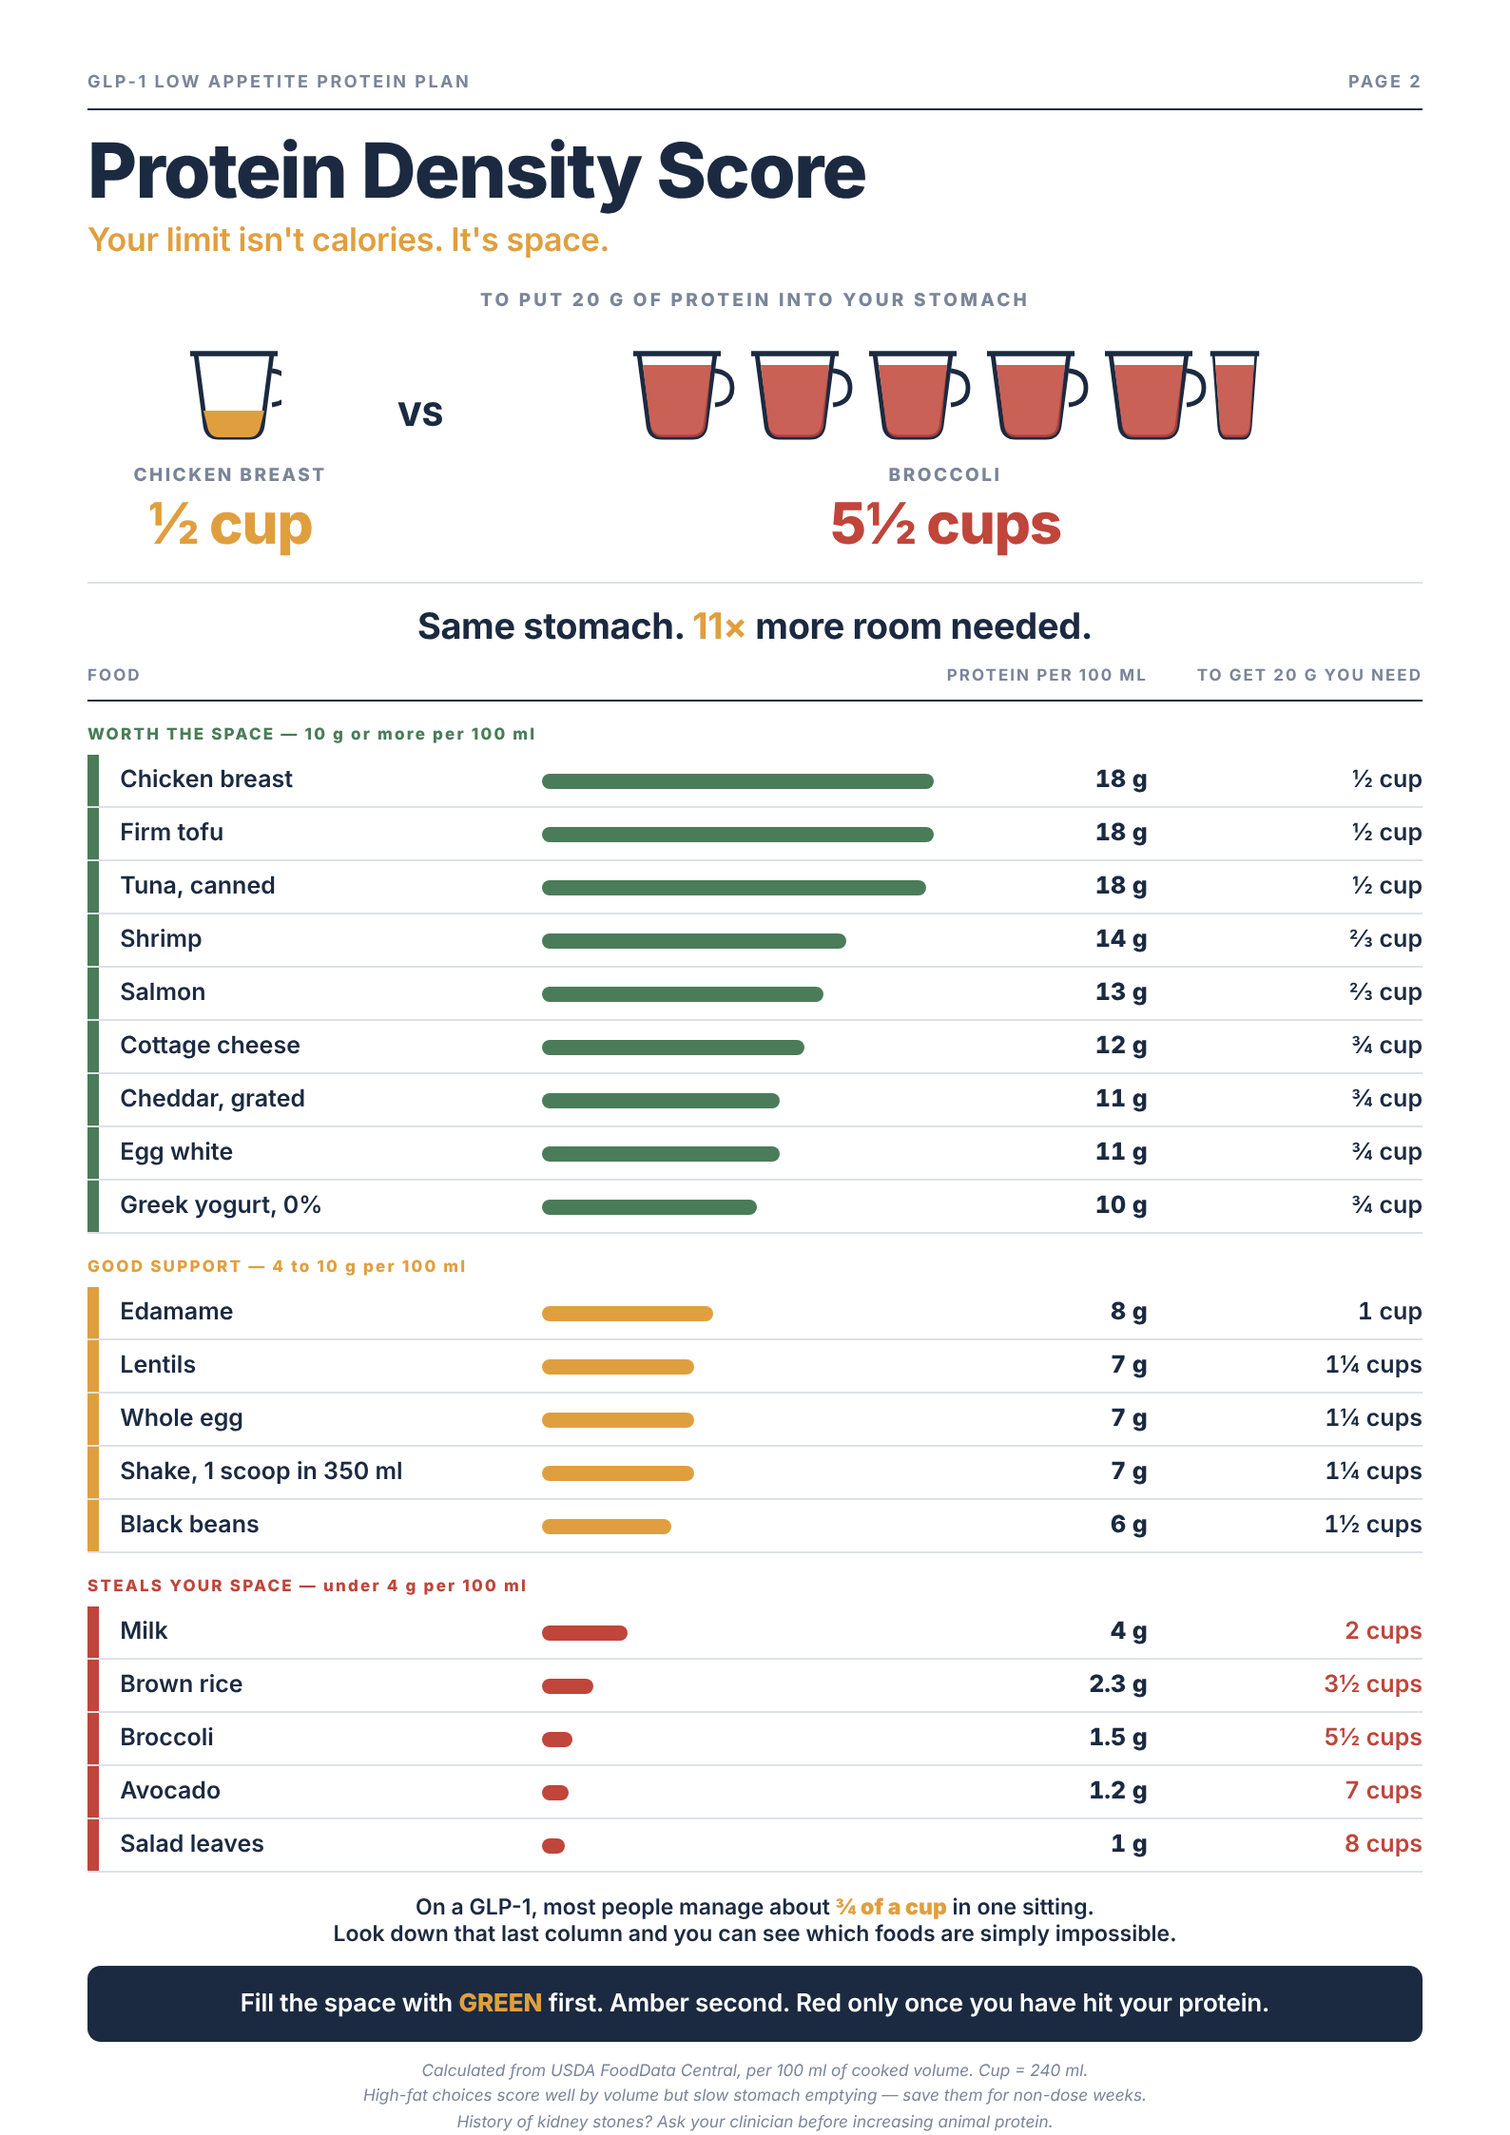
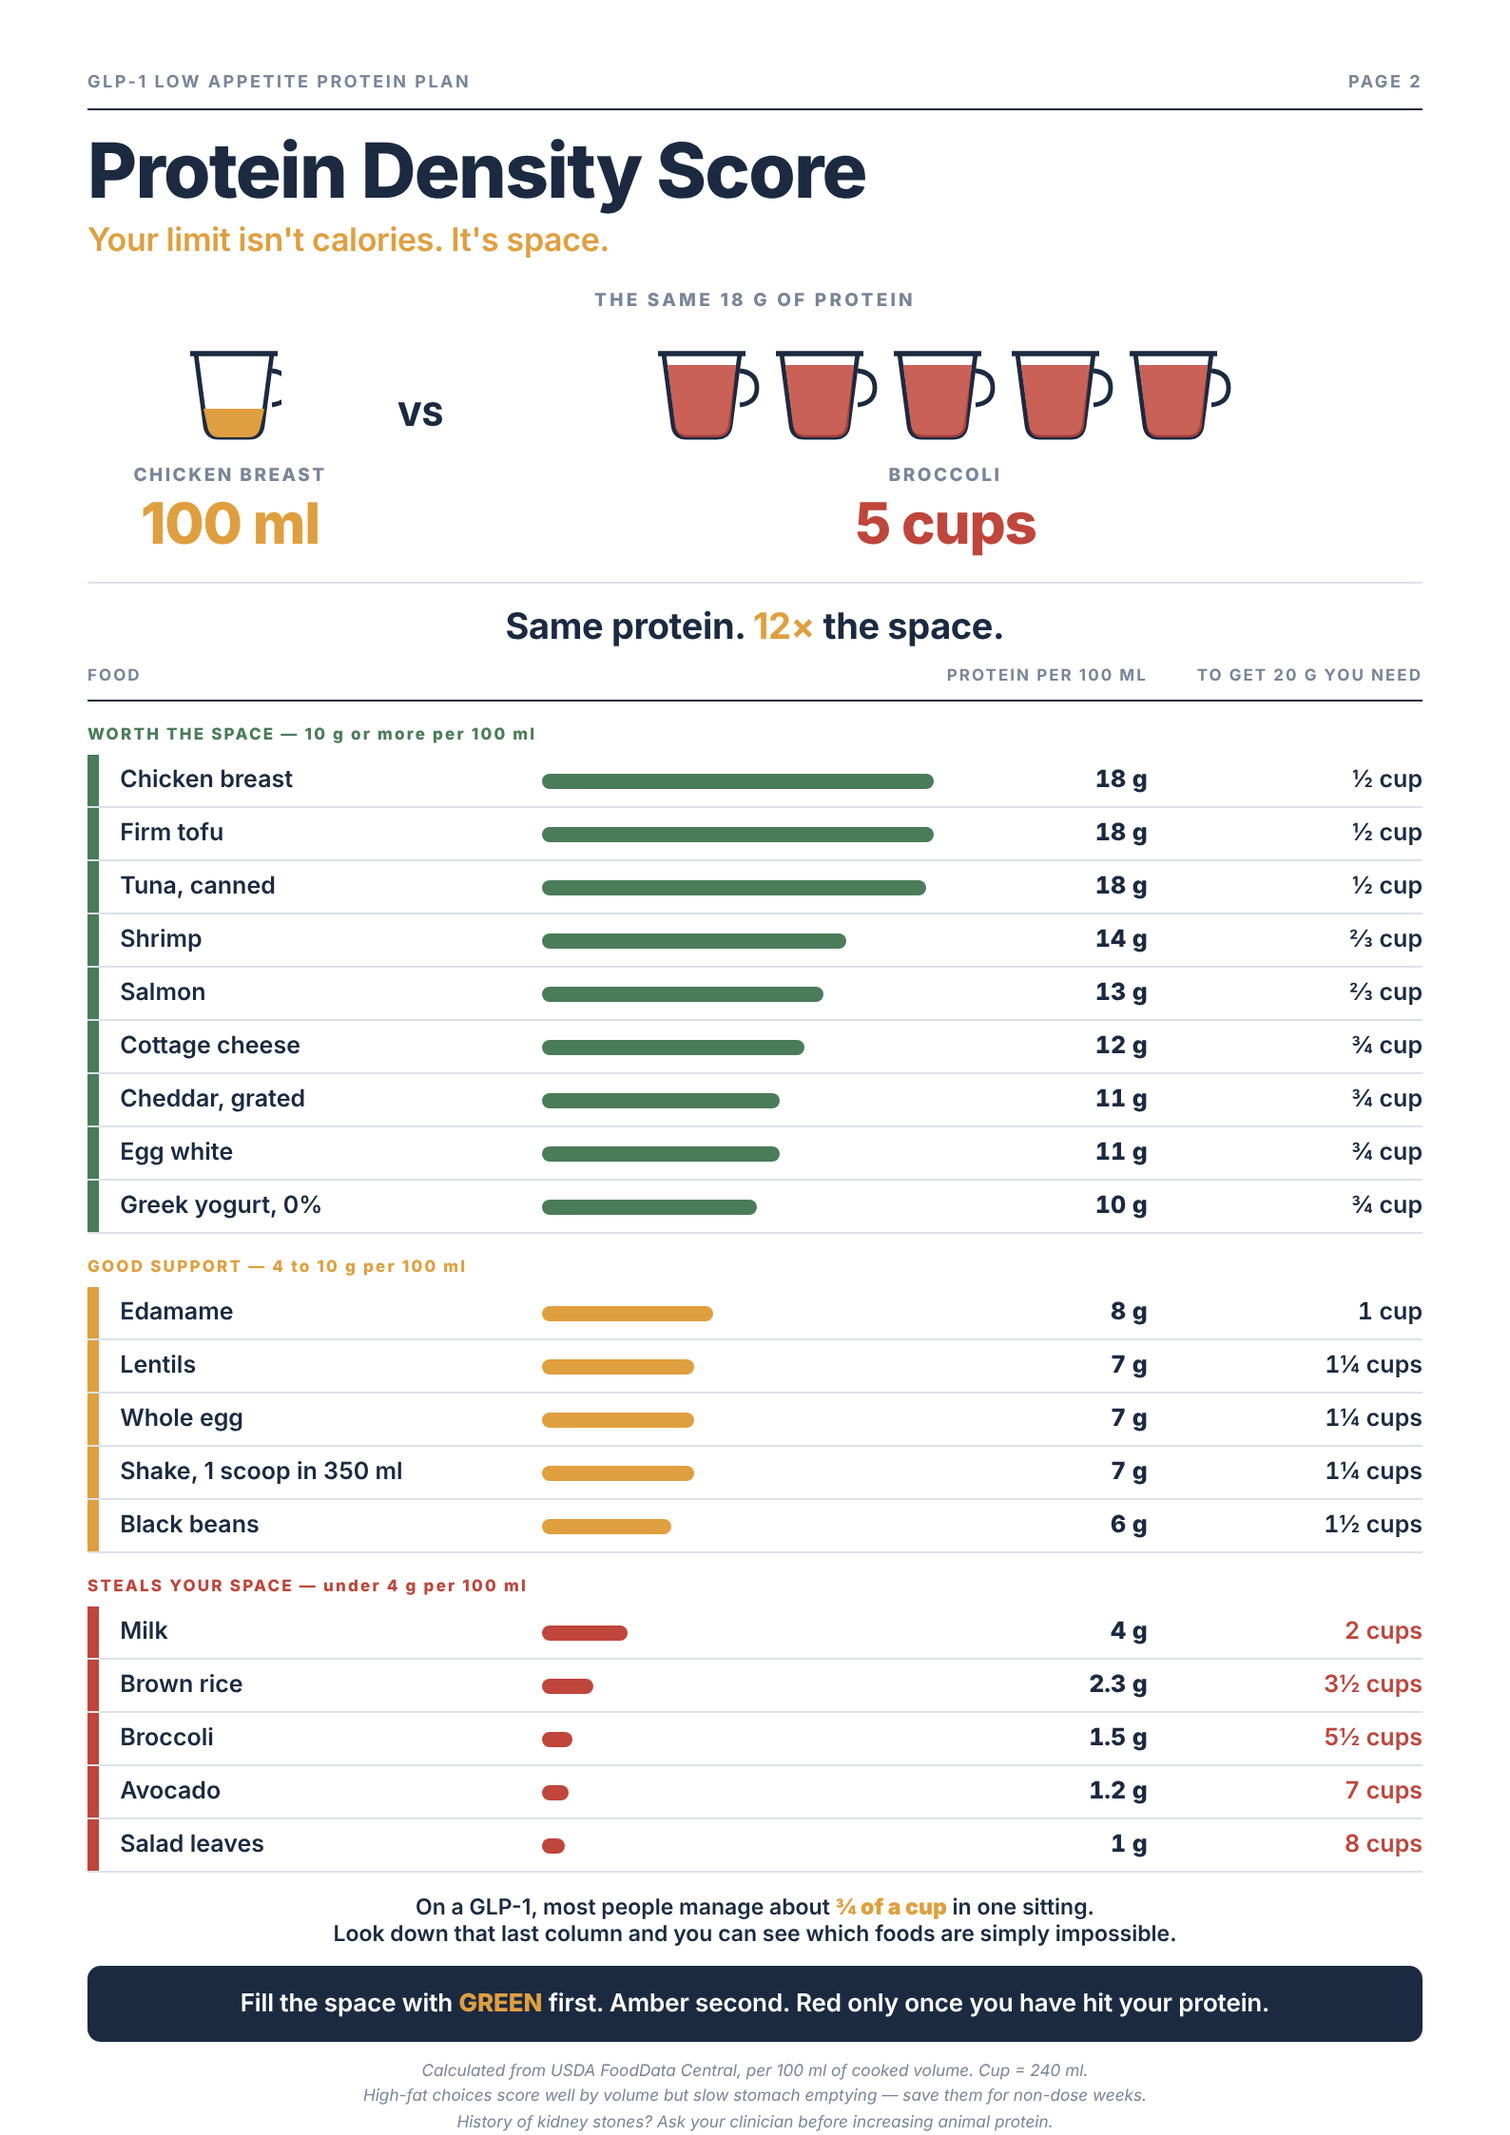
Add page 3 and anchor the page 2 hero on exact figures
Page 2's comparison now rests on numbers that land cleanly: 100 ml of
chicken carries 18 g, and the same 18 g from broccoli takes 1,200 ml,
which is five cups exactly rather than the ragged five and a half.

Page 3 turns the dose week into a schedule. A seven-day dial drops the
protein target to 60 percent and walks it back to 100 while the texture
level climbs from L1 to L4, a fill-in row lets the buyer write their own
daily numbers, and a shopping block tells them what to stock before dose
day, since nobody shops on day one.

Claude-Session: https://claude.ai/code/session_015udXMA1KmBFHqrMq4qJ4ZP

Changed region(s): [[0.2777, 0.1247, 0.8331, 0.3117], [0.0926, 0.2182, 0.216, 0.2805]]

diff --git a/product/pages/page03-doseweek.html b/product/pages/page03-doseweek.html
@@ -1,0 +1,165 @@
+<!doctype html>
+<html lang="en"><head><meta charset="utf-8"><title>Dose Week Mode</title>
+<style>
+  :root{ --navy:#1B2A41; --amber:#E09F3E; --green:#4A7C59; --red:#C0453A;
+         --muted:#7A8599; --line:#DDE1E8; --wash:#F6F7F9; }
+  @page{ size:A4; margin:0; }
+  *{ box-sizing:border-box; margin:0; padding:0; }
+  body{ width:794px; height:1123px; background:#fff; color:var(--navy);
+        font-family:"Inter","Inter Display",sans-serif; -webkit-font-smoothing:antialiased;
+        padding:38px 46px 28px; display:flex; flex-direction:column; }
+  .hdr{ display:flex; justify-content:space-between; font-size:9px; font-weight:700;
+        letter-spacing:.14em; color:var(--muted); padding-bottom:8px; border-bottom:1.5px solid var(--navy); }
+  h1{ font-size:40px; font-weight:800; letter-spacing:-.022em; margin-top:12px; line-height:1; }
+  .sub{ font-size:17px; font-weight:600; color:var(--amber); margin-top:7px; }
+
+  .why{ margin-top:16px; background:var(--wash); border-left:4px solid var(--navy);
+        padding:11px 15px; font-size:11.5px; line-height:1.5; }
+  .why b{ font-weight:800; }
+
+  .dialhdr{ font-size:9px; font-weight:800; letter-spacing:.17em; color:var(--muted); margin:18px 0 9px; }
+  .dial{ display:grid; grid-template-columns:repeat(7,1fr); gap:6px; }
+  .day{ border:1.5px solid var(--line); border-radius:8px; overflow:hidden; display:flex; flex-direction:column; }
+  .dnum{ font-size:8.5px; font-weight:800; letter-spacing:.1em; color:var(--muted);
+         text-align:center; padding:6px 0 4px; }
+  .plot{ height:72px; display:flex; align-items:flex-end; padding:0 9px; }
+  .fill{ width:100%; border-radius:4px 4px 0 0; }
+  .pct{ text-align:center; font-size:15px; font-weight:800; padding:5px 0 0; }
+  .tex{ text-align:center; font-size:8.5px; font-weight:800; letter-spacing:.07em;
+        padding:4px 0; margin:5px 6px 6px; border-radius:4px; color:#fff; }
+  .note{ font-size:8.6px; line-height:1.4; color:var(--navy); padding:0 7px 9px; text-align:center; }
+  .l1{ background:var(--red);} .l2{ background:#D08030;} .l3{ background:var(--amber);} .l4{ background:var(--green);}
+  .f1{ background:var(--red);} .f2{ background:#D08030;} .f3{ background:var(--amber);} .f4{ background:var(--green);}
+
+  .calc{ margin-top:16px; border:1.5px solid var(--navy); border-radius:8px; padding:12px 14px; }
+  .calctop{ font-size:10.5px; font-weight:800; letter-spacing:.09em; margin-bottom:9px; }
+  .calcrow{ display:grid; grid-template-columns:repeat(7,1fr); gap:6px; }
+  .cbox{ text-align:center; }
+  .cmul{ font-size:9px; font-weight:700; color:var(--muted); }
+  .cline{ border-bottom:1.6px solid var(--navy); height:20px; margin:3px 4px 0; }
+  .cg{ font-size:8px; color:var(--muted); margin-top:2px; }
+  .eg{ font-size:9.6px; color:var(--muted); margin-top:9px; font-style:italic; }
+  .eg b{ color:var(--navy); font-style:normal; }
+
+  .chg{ margin-top:16px; }
+  .chghdr{ font-size:9px; font-weight:800; letter-spacing:.17em; color:var(--muted); margin-bottom:9px; }
+  .chgrid{ display:grid; grid-template-columns:1fr 1fr; gap:7px 16px; }
+  .ci{ display:flex; gap:9px; align-items:baseline; font-size:11.4px; line-height:1.4; }
+  .sym{ font-size:13px; font-weight:800; width:15px; flex:none; text-align:center; }
+  .dn{ color:var(--red);} .up{ color:var(--green);} .no{ color:var(--red);}
+  .ci b{ font-weight:700; }
+
+
+  .prep{ margin-top:16px; }
+  .prepgrid{ display:grid; grid-template-columns:repeat(4,1fr); gap:9px; }
+  .pcol{ border:1.5px solid var(--line); border-radius:8px; padding:0 0 9px; }
+  .ptag{ font-size:8.4px; font-weight:800; letter-spacing:.09em; color:#fff;
+         padding:5px 0; text-align:center; border-radius:6px 6px 0 0; }
+  .pcol ul{ list-style:none; padding:8px 11px 0; }
+  .pcol li{ font-size:10.4px; line-height:1.5; padding-left:11px; position:relative; margin-bottom:3px; }
+  .pcol li::before{ content:"·"; position:absolute; left:0; font-weight:800; color:var(--muted); }
+  .foot{ margin-top:auto; }
+  .rule{ background:var(--navy); color:#fff; border-radius:7px; padding:13px 18px;
+         font-size:14px; font-weight:700; text-align:center; }
+  .rule b{ color:var(--amber); font-weight:800; }
+  .fn{ font-size:8.6px; color:var(--muted); line-height:1.55; font-style:italic;
+       text-align:center; margin-top:10px; }
+</style></head><body>
+
+<div class="hdr"><span>GLP-1 LOW APPETITE PROTEIN PLAN</span><span>PAGE 3</span></div>
+<h1>Dose Week Mode</h1>
+<div class="sub">The week after a dose increase is predictable. So plan it.</div>
+
+<div class="why">
+  Side effects are most likely when you <b>start</b> a GLP-1 or <b>step up a dose</b>, and they usually
+  ease within one to two weeks. That is the whole point: this week is not a failure, it is a
+  <b>known pattern</b> — and a known pattern can be planned for instead of survived.
+</div>
+
+<div class="dialhdr">THE 7-DAY DIAL &mdash; START ON THE DAY YOU TAKE THE HIGHER DOSE</div>
+<div class="dial">
+  <div class="day"><div class="dnum">DAY 1</div>
+    <div class="plot"><div class="fill f1" style="height:60%"></div></div>
+    <div class="pct">60%</div><div class="tex l1">L1</div>
+    <div class="note">Cold, thin, sippable. Nothing solid if it fights you.</div></div>
+  <div class="day"><div class="dnum">DAY 2</div>
+    <div class="plot"><div class="fill f1" style="height:60%"></div></div>
+    <div class="pct">60%</div><div class="tex l1">L1</div>
+    <div class="note">Sip across the whole day. Protein liquid first.</div></div>
+  <div class="day"><div class="dnum">DAY 3</div>
+    <div class="plot"><div class="fill f2" style="height:80%"></div></div>
+    <div class="pct">80%</div><div class="tex l2">L2</div>
+    <div class="note">Add purée and thicker shakes. Small spoons.</div></div>
+  <div class="day"><div class="dnum">DAY 4</div>
+    <div class="plot"><div class="fill f2" style="height:80%"></div></div>
+    <div class="pct">80%</div><div class="tex l2">L2</div>
+    <div class="note">Start putting fibre back. Stop at first fullness.</div></div>
+  <div class="day"><div class="dnum">DAY 5</div>
+    <div class="plot"><div class="fill f3" style="height:90%"></div></div>
+    <div class="pct">90%</div><div class="tex l3">L3</div>
+    <div class="note">Soft and moist: minced, flaked, scrambled.</div></div>
+  <div class="day"><div class="dnum">DAY 6</div>
+    <div class="plot"><div class="fill f3" style="height:90%"></div></div>
+    <div class="pct">90%</div><div class="tex l3">L3</div>
+    <div class="note">Back to three small meals plus one top-up.</div></div>
+  <div class="day"><div class="dnum">DAY 7</div>
+    <div class="plot"><div class="fill f4" style="height:100%"></div></div>
+    <div class="pct">100%</div><div class="tex l4">L4</div>
+    <div class="note">Normal plan resumes. Climb back up the ladder.</div></div>
+</div>
+
+<div class="calc">
+  <div class="calctop">WRITE YOUR OWN NUMBERS &mdash; MY NORMAL TARGET IS <span style="border-bottom:1.6px solid var(--navy); padding:0 26px"></span> G</div>
+  <div class="calcrow">
+    <div class="cbox"><div class="cmul">&times; 0.6</div><div class="cline"></div><div class="cg">DAY 1</div></div>
+    <div class="cbox"><div class="cmul">&times; 0.6</div><div class="cline"></div><div class="cg">DAY 2</div></div>
+    <div class="cbox"><div class="cmul">&times; 0.8</div><div class="cline"></div><div class="cg">DAY 3</div></div>
+    <div class="cbox"><div class="cmul">&times; 0.8</div><div class="cline"></div><div class="cg">DAY 4</div></div>
+    <div class="cbox"><div class="cmul">&times; 0.9</div><div class="cline"></div><div class="cg">DAY 5</div></div>
+    <div class="cbox"><div class="cmul">&times; 0.9</div><div class="cline"></div><div class="cg">DAY 6</div></div>
+    <div class="cbox"><div class="cmul">&times; 1.0</div><div class="cline"></div><div class="cg">DAY 7</div></div>
+  </div>
+  <div class="eg">Worked example &mdash; if your normal target is <b>115 g</b>, this week reads
+    <b>69 · 69 · 92 · 92 · 104 · 104 · 115</b>.</div>
+</div>
+
+<div class="chg">
+  <div class="chghdr">WHAT CHANGES THIS WEEK</div>
+  <div class="chgrid">
+    <div class="ci"><span class="sym dn">&darr;</span><span><b>Fat.</b> It slows your stomach further, on top of what the drug already does.</span></div>
+    <div class="ci"><span class="sym up">&uarr;</span><span><b>Fluids.</b> Between meals, never with them — they take the space you need.</span></div>
+    <div class="ci"><span class="sym dn">&darr;</span><span><b>Fibre</b>, for the first few days only. Put it back from Day 4 so you don't trade nausea for constipation.</span></div>
+    <div class="ci"><span class="sym no">&times;</span><span><b>Alcohol.</b> It makes nausea and reflux worse while you are adjusting.</span></div>
+    <div class="ci"><span class="sym no">&times;</span><span><b>Large portions.</b> Vomiting on a GLP-1 usually comes from volume, not from the food itself.</span></div>
+    <div class="ci"><span class="sym up">&uarr;</span><span><b>Frequency.</b> A small breakfast, then something small every 3&ndash;4 hours.</span></div>
+  </div>
+</div>
+
+
+<div class="prep">
+  <div class="chghdr">STOCK THESE <span style="color:var(--navy)">BEFORE</span> DOSE DAY &mdash; YOU WILL NOT FEEL LIKE SHOPPING ON DAY 1</div>
+  <div class="prepgrid">
+    <div class="pcol"><div class="ptag l1">L1 &middot; DAYS 1&ndash;2</div><ul>
+      <li>Clear or isolate protein powder</li><li>Unsweetened almond or skim milk</li>
+      <li>Ice &mdash; cold is tolerated better</li><li>Electrolyte sachets</li></ul></div>
+    <div class="pcol"><div class="ptag l2">L2 &middot; DAYS 3&ndash;4</div><ul>
+      <li>Plain Greek yogurt, 0%</li><li>Cottage cheese</li>
+      <li>Smooth soup you can fortify</li><li>Silken tofu</li></ul></div>
+    <div class="pcol"><div class="ptag l3">L3 &middot; DAYS 5&ndash;6</div><ul>
+      <li>Eggs</li><li>Tinned tuna or salmon</li>
+      <li>Minced chicken or turkey</li><li>Soft white fish</li></ul></div>
+    <div class="pcol"><div class="ptag l4">L4 &middot; DAY 7</div><ul>
+      <li>Back to your normal green list</li><li>Fibre: berries, oats, pulses</li>
+      <li>Something you actually enjoy</li></ul></div>
+  </div>
+</div>
+
+<div class="foot">
+  <div class="rule">The target <b>drops</b>. It never goes to <b>zero</b>.</div>
+  <div class="fn">
+    Eating too little makes nausea worse, which makes you eat even less — that loop is the real risk of a dose week.<br>
+    You can ask your prescriber about a slower titration. Never change your dose on your own.<br>
+    Vomiting or diarrhoea for more than 24 hours, or much less urine than usual: call your clinician.
+  </div>
+</div>
+</body></html>

diff --git a/product/pages/page02-density.html b/product/pages/page02-density.html
@@ -69,36 +69,35 @@
 <div class="sub">Your limit isn't calories. It's space.</div>
 
 <div class="hero2">
-  <div class="h2lab">TO PUT 20 G OF PROTEIN INTO YOUR STOMACH</div>
+  <div class="h2lab">THE SAME 18 G OF PROTEIN</div>
   <div class="h2row">
     <div class="h2side">
       <div class="h2cups">
-        <svg width="54" height="58" viewBox="0 0 54 58"><g stroke="#1B2A41" stroke-width="2.4" fill="#fff" stroke-linejoin="round"><path d="M9 8 L14 46 Q15 52 21 52 L37 52 Q43 52 44 46 L49 8"/><path d="M49 17 q9 1 9 9 t-9 9" fill="none"/><path d="M6 8 h46" stroke-width="2.8"/><path d="M13 38 L45 38 L43 46 Q42 52 37 52 L21 52 Q16 52 15 46 Z" fill="#E09F3E" stroke="none"/></g></svg>
+        <svg width="54" height="58" viewBox="0 0 54 58"><g stroke="#1B2A41" stroke-width="2.4" fill="#fff" stroke-linejoin="round"><path d="M9 8 L14 46 Q15 52 21 52 L37 52 Q43 52 44 46 L49 8"/><path d="M49 17 q9 1 9 9 t-9 9" fill="none"/><path d="M6 8 h46" stroke-width="2.8"/><path d="M13 37 L45 37 L43 46 Q42 52 37 52 L21 52 Q16 52 15 46 Z" fill="#E09F3E" stroke="none"/></g></svg>
       </div>
       <div class="h2name">CHICKEN BREAST</div>
-      <div class="h2amt a">½ cup</div>
+      <div class="h2amt a">100 ml</div>
     </div>
     <div class="h2vs">VS</div>
     <div class="h2side">
       <div class="h2cups">
-        <svg width="340" height="58" viewBox="0 0 340 58">
+        <svg width="314" height="58" viewBox="0 0 314 58">
           <g stroke="#1B2A41" stroke-width="2.4" fill="#fff" stroke-linejoin="round">
             <g><path d="M9 8 L14 46 Q15 52 21 52 L37 52 Q43 52 44 46 L49 8"/><path d="M49 17 q9 1 9 9 t-9 9" fill="none"/><path d="M6 8 h46" stroke-width="2.8"/><path d="M11 14 L47 14 L44 46 Q43 52 37 52 L21 52 Q16 52 15 46 Z" fill="#C0453A" stroke="none" opacity=".85"/></g>
             <g transform="translate(62,0)"><path d="M9 8 L14 46 Q15 52 21 52 L37 52 Q43 52 44 46 L49 8"/><path d="M49 17 q9 1 9 9 t-9 9" fill="none"/><path d="M6 8 h46" stroke-width="2.8"/><path d="M11 14 L47 14 L44 46 Q43 52 37 52 L21 52 Q16 52 15 46 Z" fill="#C0453A" stroke="none" opacity=".85"/></g>
             <g transform="translate(124,0)"><path d="M9 8 L14 46 Q15 52 21 52 L37 52 Q43 52 44 46 L49 8"/><path d="M49 17 q9 1 9 9 t-9 9" fill="none"/><path d="M6 8 h46" stroke-width="2.8"/><path d="M11 14 L47 14 L44 46 Q43 52 37 52 L21 52 Q16 52 15 46 Z" fill="#C0453A" stroke="none" opacity=".85"/></g>
             <g transform="translate(186,0)"><path d="M9 8 L14 46 Q15 52 21 52 L37 52 Q43 52 44 46 L49 8"/><path d="M49 17 q9 1 9 9 t-9 9" fill="none"/><path d="M6 8 h46" stroke-width="2.8"/><path d="M11 14 L47 14 L44 46 Q43 52 37 52 L21 52 Q16 52 15 46 Z" fill="#C0453A" stroke="none" opacity=".85"/></g>
             <g transform="translate(248,0)"><path d="M9 8 L14 46 Q15 52 21 52 L37 52 Q43 52 44 46 L49 8"/><path d="M49 17 q9 1 9 9 t-9 9" fill="none"/><path d="M6 8 h46" stroke-width="2.8"/><path d="M11 14 L47 14 L44 46 Q43 52 37 52 L21 52 Q16 52 15 46 Z" fill="#C0453A" stroke="none" opacity=".85"/></g>
-            <g transform="translate(306,0) scale(0.56,1)"><path d="M9 8 L14 46 Q15 52 21 52 L37 52 Q43 52 44 46 L49 8"/><path d="M6 8 h46" stroke-width="2.8"/><path d="M11 14 L47 14 L44 46 Q43 52 37 52 L21 52 Q16 52 15 46 Z" fill="#C0453A" stroke="none" opacity=".85"/></g>
-          </g>
+                      </g>
         </svg>
       </div>
       <div class="h2name">BROCCOLI</div>
-      <div class="h2amt r">5½ cups</div>
+      <div class="h2amt r">5 cups</div>
     </div>
   </div>
 </div>
 
-<div class="heroline">Same stomach. <em>11&times;</em> more room needed.</div>
+<div class="heroline">Same protein. <em>12&times;</em> the space.</div>
 
 <table>
 <thead><tr>
